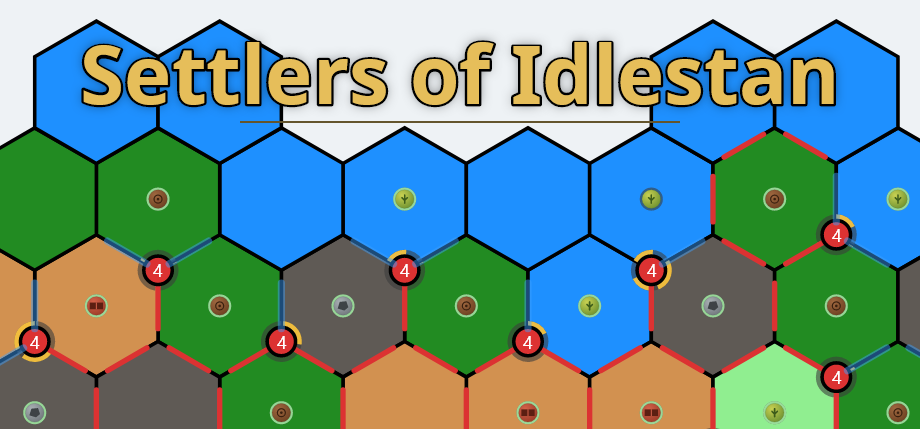
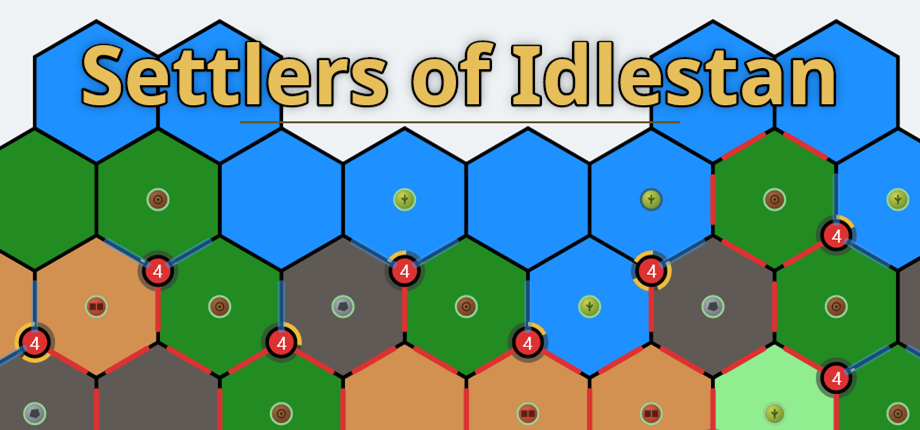
Correction export background transparent + ajout title

diff --git a/SettlersOfIdlestanSkia/Renderers/Island/GameBoardRenderer.cs b/SettlersOfIdlestanSkia/Renderers/Island/GameBoardRenderer.cs
@@ -148,7 +148,8 @@ public class GameBoardRenderer : HexBasedRenderer, IGameRenderer
             var worldState = mainGameState.CurrentWorldState;
             if (worldState != null && worldState.CurrentViewedLayer == LayerState.UnderworldZ && worldState.Layers.ContainsKey(LayerState.UnderworldZ))
             {
-                canvas.DrawColor(new SKColor(15, 8, 30));
+                if (!DebugSettings.ExportTransparentBackground)
+                    canvas.DrawColor(new SKColor(15, 8, 30));
                 var playerIdx = worldState.PlayerCivilization.Index;
                 IslandMap? underworldMap = DebugSettings.ShowFullMap
                     ? worldState.GetMapForZ(LayerState.UnderworldZ)
@@ -176,7 +177,8 @@ public class GameBoardRenderer : HexBasedRenderer, IGameRenderer
             }
         }
 
-        canvas.DrawColor(new SKColor(238, 242, 245));
+        if (!DebugSettings.ExportTransparentBackground)
+            canvas.DrawColor(new SKColor(238, 242, 245));
 
         if (context.GameState is MainGameState mgs)
         {